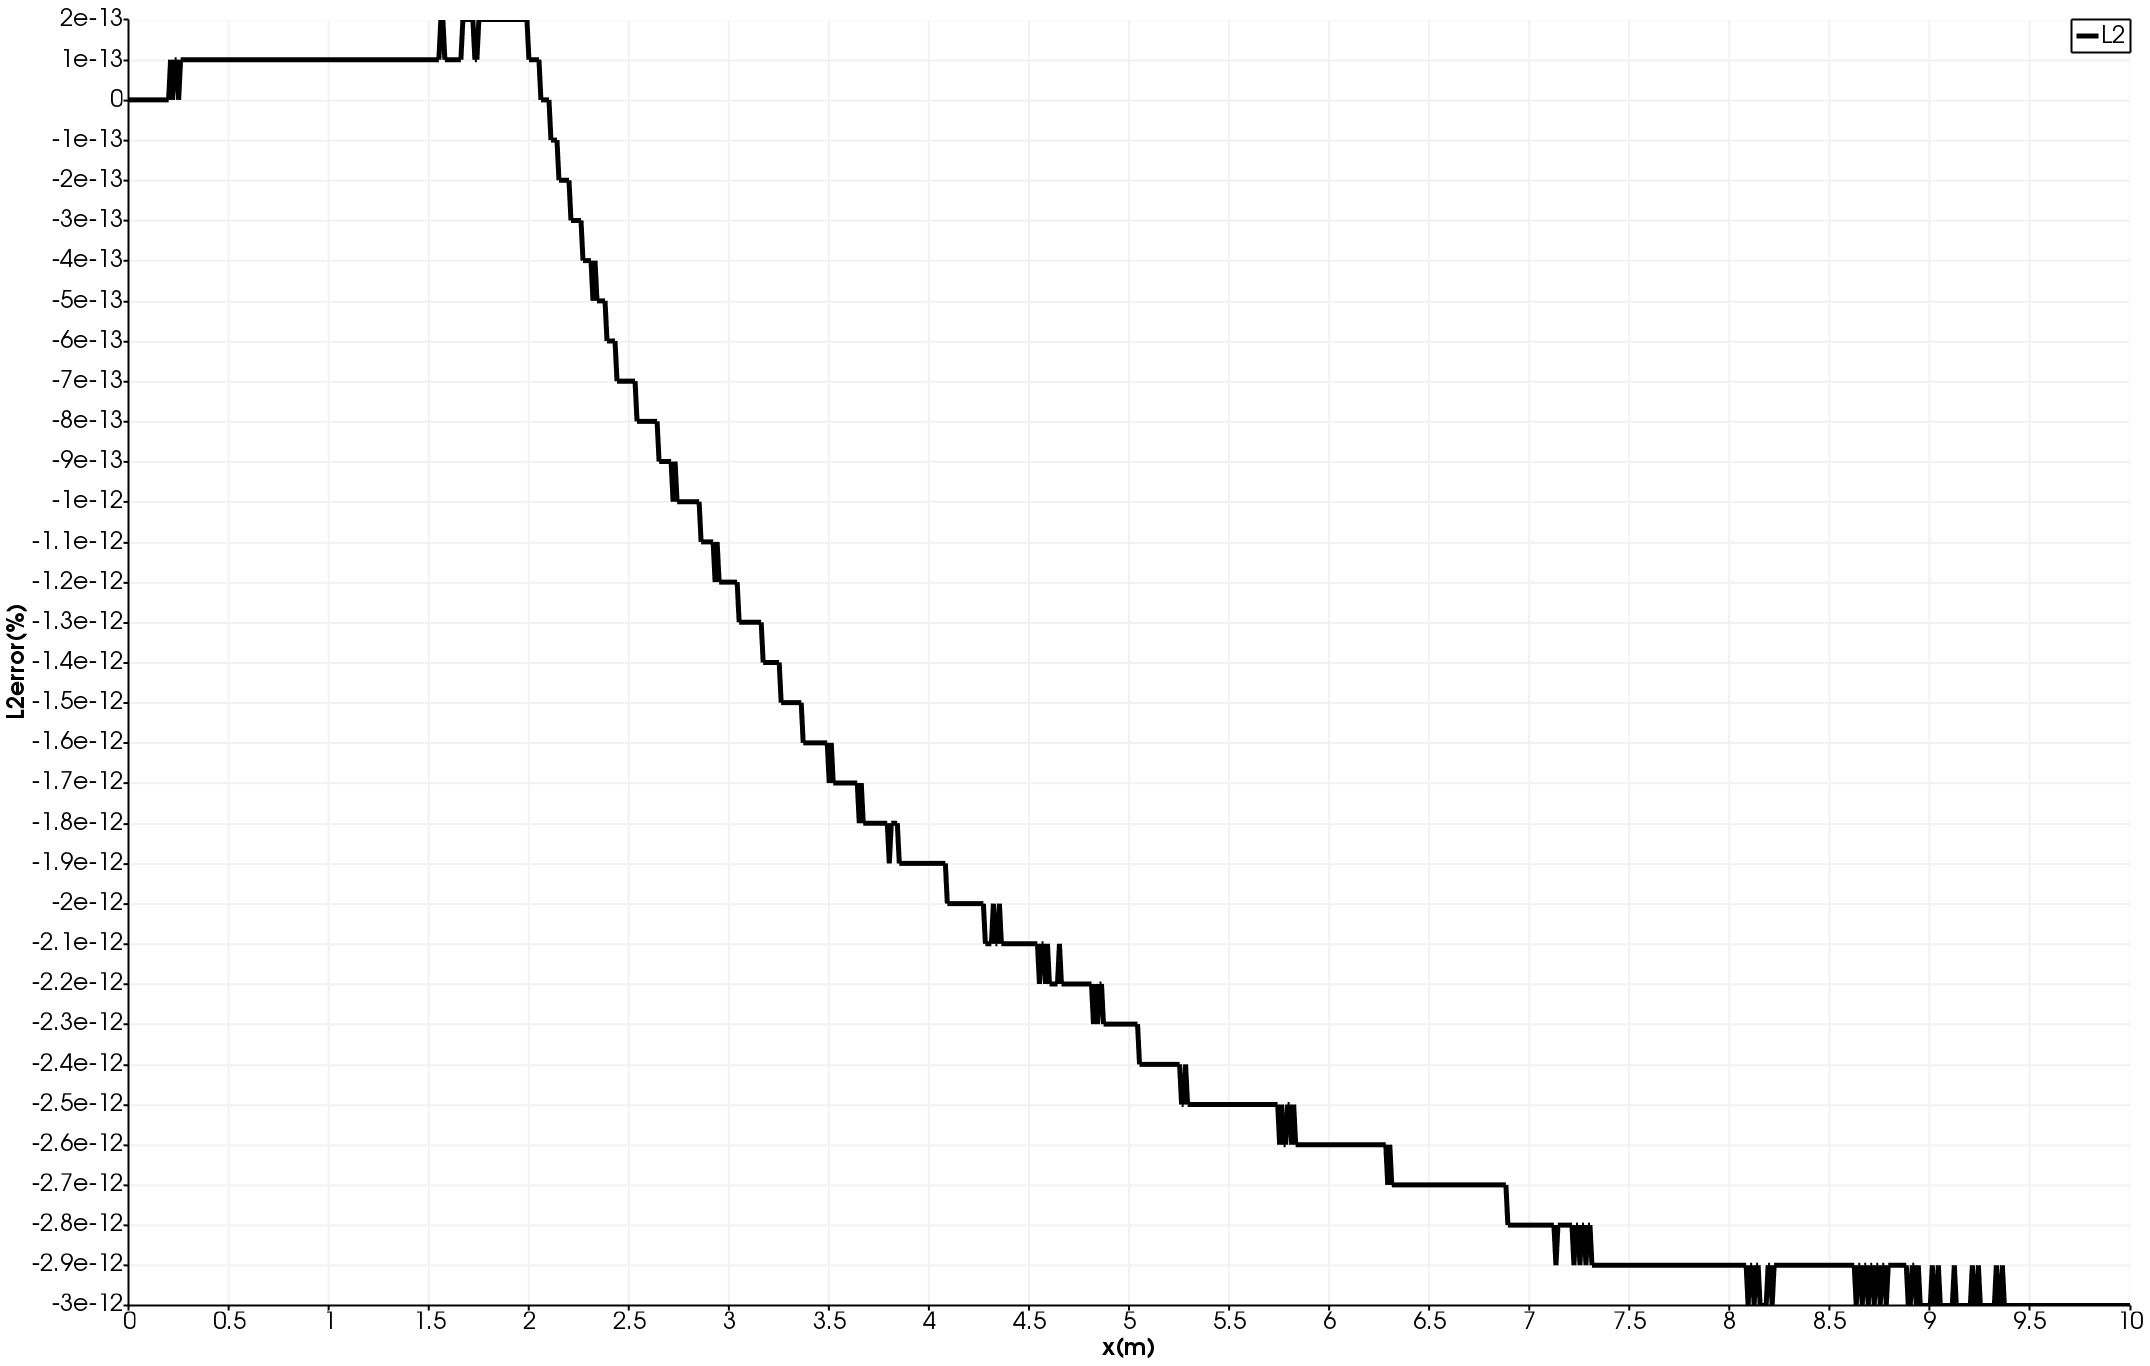
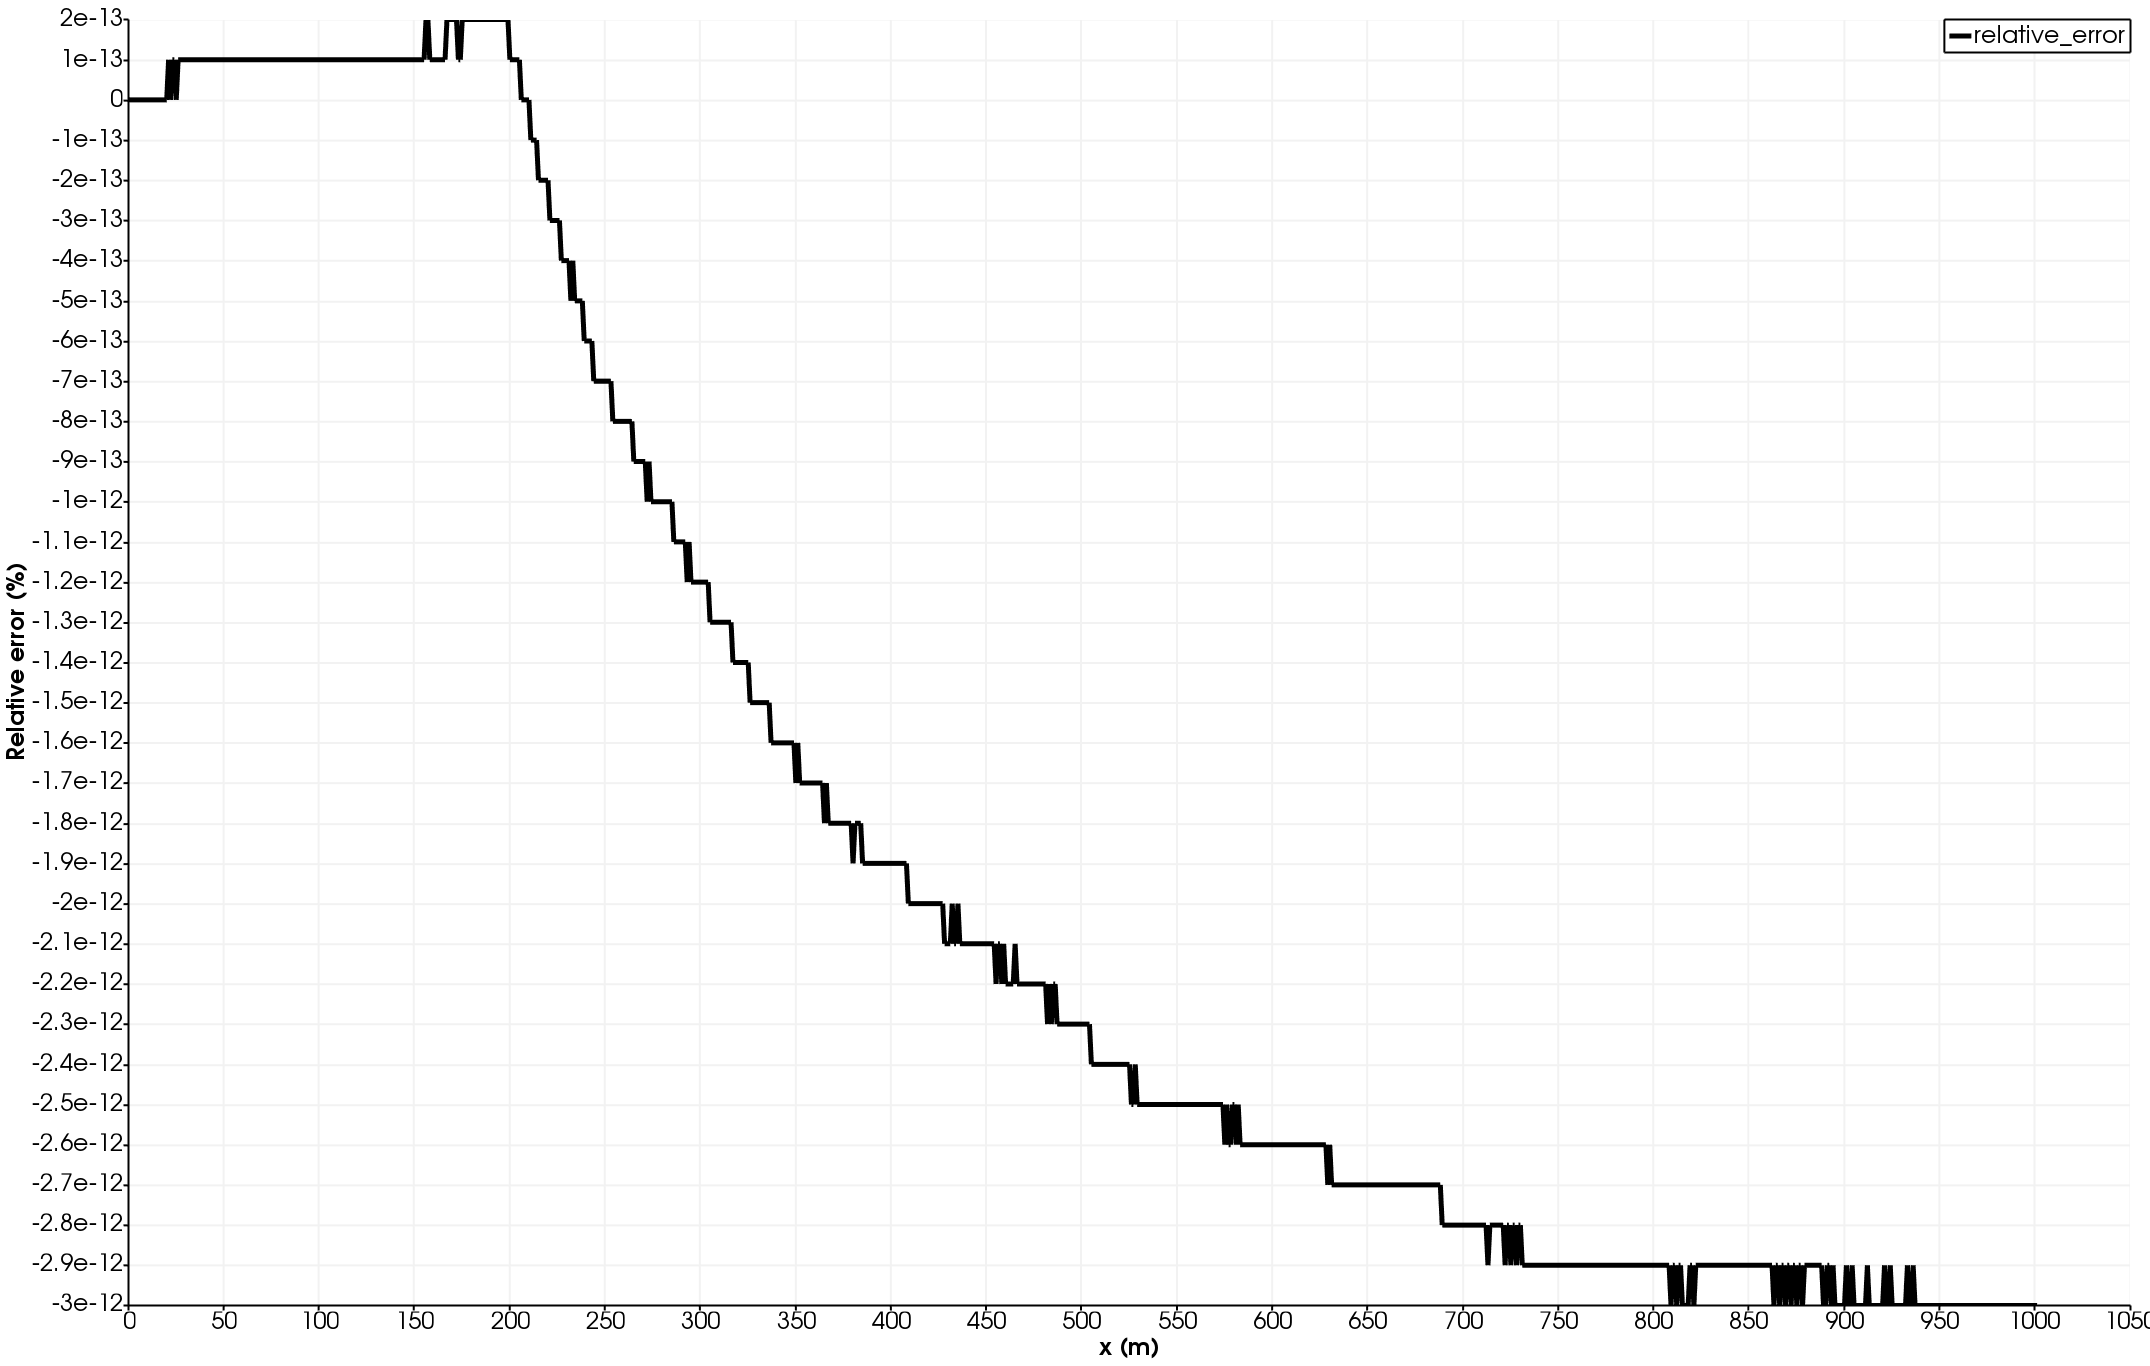
L2 error to relative error

diff --git a/FinalAssignment/main.cpp b/FinalAssignment/main.cpp
@@ -191,7 +191,7 @@ void Prob3::Compute(double _dt) {
     printf("x_end = %fm\n", xf);
     printf("y_numerical = %.13fm\n", yi[0]);
     printf("y_analytical = %.13fm\n", yi[1]);
-    printf("L2_error = %.13f\n", L2(yi[0],yi[1]));
+    printf("relative_error = %.13f\n", Error(yi[0],yi[1]));
     free(yi);
 }
 double Prob3::RK4Main(int n, double xi, double *yi, double x_end, double dx) {
@@ -199,19 +199,19 @@ double Prob3::RK4Main(int n, double xi, double *yi, double x_end, double dx) {
     int iter = 0;
     FILE *file;
     file = fopen(name, "w");
-    fprintf(file, "x,y_numerical,y_analytical,L2\n");
+    fprintf(file, "x,y_numerical,y_analytical,relative_error\n");
     double* y = (double *)malloc(n * sizeof(double));
     for(int i = 0 ; i < n ; i++) {
         y[i] = yi[i];
     }
     double y_a = Analytical(x);
-    fprintf(file, "%f,%.13f,%.13f,%.13f\n", x, y[0], y_a, L2(y[0],y_a));
+    fprintf(file, "%f,%.13f,%.13f,%.13f\n", x, y[0], y_a, Error(y[0],y_a));
     do{
         double h = dx;
         x = Integrator(x, y, n, h, x_end);
         iter++;
         y_a = Analytical(x);
-        fprintf(file, "%.13f,%.13f,%.13f,%.13f\n", x, y[0], y_a, L2(y[0],y_a));
+        fprintf(file, "%.13f,%.13f,%.13f,%.13f\n", x, y[0], y_a, Error(y[0],y_a));
     }while((x < x_end));
     yi[0]=y[0];
     yi[1]=Analytical(x);
@@ -269,7 +269,7 @@ void Prob3::Derivs(double x, double *y, double *dy) {
 double Prob3::Analytical(double x) {
     return (P*x*x)/(2.0*E*I)*(-1.0*L + x / 3.0);
 }
-double Prob3::L2(double y_n, double y_a) {
+double Prob3::Error(double y_n, double y_a) {
     if(y_a == 0)
         return y_a-y_n;
     return (y_a-y_n)/y_a*100.0;

diff --git a/FinalAssignment/main.h b/FinalAssignment/main.h
@@ -47,7 +47,7 @@ private:
     double RK4(double x, double* y, int n, double h);
     void Derivs(double x, double* y, double *dy);
     double Analytical(double x);
-    double L2(double y_n, double y_a);
+    double Error(double y_n, double y_a);
     char name[50];
     double dx;
     double x_end;
